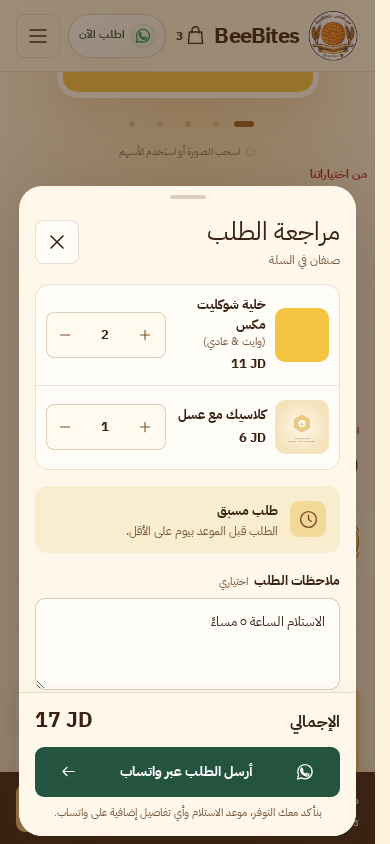
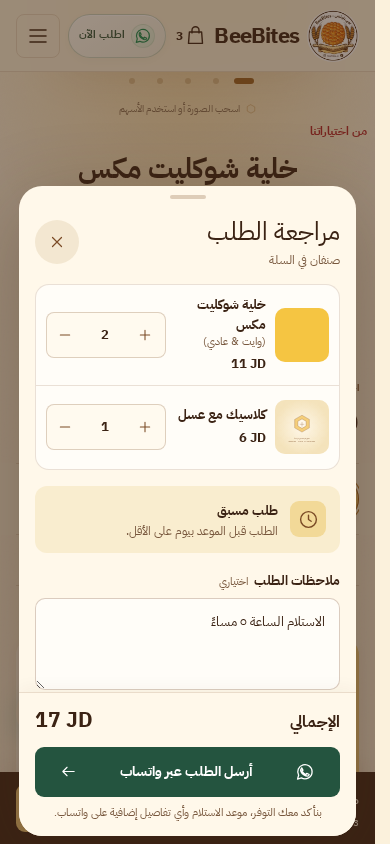
Enable cart swipe dismissal and refine close button

diff --git a/src/components/CartBar.tsx b/src/components/CartBar.tsx
@@ -1,5 +1,5 @@
 import { useLanguage } from '../hooks/useLanguage'
-import { useRef, useState } from 'react'
+import { useRef, useState, type PointerEvent } from 'react'
 import { motion, useReducedMotion } from 'motion/react'
 import type { CartLine, Product, SiteSettings } from '../types/menu'
 import { MAX_QUANTITY, ORDER_NOTE_MAX_LENGTH } from '../lib/cart'
@@ -51,6 +51,7 @@ export function CartBar({
 }: CartBarProps) {
   const { t, language } = useLanguage()
   const dialog = useRef<HTMLDialogElement>(null)
+  const dismissDrag = useRef<{ pointerId: number; startY: number } | null>(null)
   const reducedMotion = useReducedMotion()
   const orderMessage = buildOrderMessage(lines, language, orderNote)
   const canOrder = Boolean(whatsappUrl(settings.whatsappNumber, orderMessage))
@@ -59,6 +60,33 @@ export function CartBar({
     : language === 'ar' && lines.length === 2
       ? 'صنفان في السلة'
       : t('{count} أصناف في السلة', { count: lines.length })
+
+  function resetDismissDrag() {
+    dismissDrag.current = null
+    dialog.current?.classList.remove('cart-dialog-dragging')
+    dialog.current?.style.removeProperty('--cart-drag-y')
+  }
+
+  function startDismissDrag(event: PointerEvent<HTMLDivElement>) {
+    if (window.innerWidth > 767 || !event.isPrimary || event.button !== 0) return
+    if ((event.target as Element).closest('button')) return
+    dismissDrag.current = { pointerId: event.pointerId, startY: event.clientY }
+    event.currentTarget.setPointerCapture(event.pointerId)
+    dialog.current?.classList.add('cart-dialog-dragging')
+  }
+
+  function moveDismissDrag(event: PointerEvent<HTMLDivElement>) {
+    if (dismissDrag.current?.pointerId !== event.pointerId) return
+    const distance = Math.max(0, event.clientY - dismissDrag.current.startY)
+    dialog.current?.style.setProperty('--cart-drag-y', `${distance}px`)
+  }
+
+  function endDismissDrag(event: PointerEvent<HTMLDivElement>) {
+    if (dismissDrag.current?.pointerId !== event.pointerId) return
+    const distance = event.clientY - dismissDrag.current.startY
+    if (distance >= 72) dialog.current?.close()
+    resetDismissDrag()
+  }
 
   return (
     <>
@@ -106,6 +134,7 @@ export function CartBar({
         ref={dialog}
         aria-labelledby="cart-dialog-title"
         aria-describedby="cart-dialog-count"
+        onClose={resetDismissDrag}
         onClick={(event) => {
           if (event.target !== event.currentTarget) return
           const bounds = event.currentTarget.getBoundingClientRect()
@@ -118,7 +147,13 @@ export function CartBar({
             dialog.current?.close()
         }}
       >
-        <div className="cart-dialog-header">
+        <div
+          className="cart-dialog-header"
+          onPointerDown={startDismissDrag}
+          onPointerMove={moveDismissDrag}
+          onPointerUp={endDismissDrag}
+          onPointerCancel={resetDismissDrag}
+        >
           <span className="cart-dialog-handle" aria-hidden="true" />
           <div>
             <h2 id="cart-dialog-title">{t('مراجعة الطلب')}</h2>
@@ -126,11 +161,11 @@ export function CartBar({
           </div>
           <button
             type="button"
-            className="icon-button"
+            className="cart-dialog-close"
             aria-label={t('إغلاق تفاصيل الطلب')}
             onClick={() => dialog.current?.close()}
           >
-            <Icon name="close" />
+            <Icon name="close" size={18} />
           </button>
         </div>
         <div className="cart-dialog-body">

diff --git a/src/App.css b/src/App.css
@@ -1702,6 +1702,11 @@
   color: var(--espresso);
   box-shadow: 0 20px 80px #3b23144d;
   overflow: hidden;
+  transform: translateY(var(--cart-drag-y, 0px));
+  transition: transform 0.22s ease-out;
+}
+.cart-dialog-dragging {
+  transition: none;
 }
 .cart-dialog[open] {
   display: flex;
@@ -1732,11 +1737,26 @@
   color: var(--muted);
   font-size: 12px;
 }
-.cart-dialog-header .icon-button {
+.cart-dialog-close {
+  display: grid;
+  place-items: center;
+  width: 44px;
+  height: 44px;
   flex: none;
-  background: #fffdf8;
+  padding: 0;
+  border: 0;
+  border-radius: 50%;
+  background: #f3e7d1;
+  color: var(--chocolate);
+  transition: background 0.2s, transform 0.2s;
 }
-.cart-dialog-header .icon-button:focus-visible {
+.cart-dialog-close:hover {
+  background: #ecd4aa;
+}
+.cart-dialog-close:active {
+  transform: scale(0.95);
+}
+.cart-dialog-close:focus-visible {
   outline: 2px solid var(--honey-deep);
   outline-offset: 2px;
 }
@@ -2444,6 +2464,12 @@
   }
   .cart-dialog-header {
     padding: 28px 16px 15px;
+    cursor: grab;
+    touch-action: none;
+    user-select: none;
+  }
+  .cart-dialog-dragging .cart-dialog-header {
+    cursor: grabbing;
   }
   .cart-dialog-handle {
     position: absolute;
